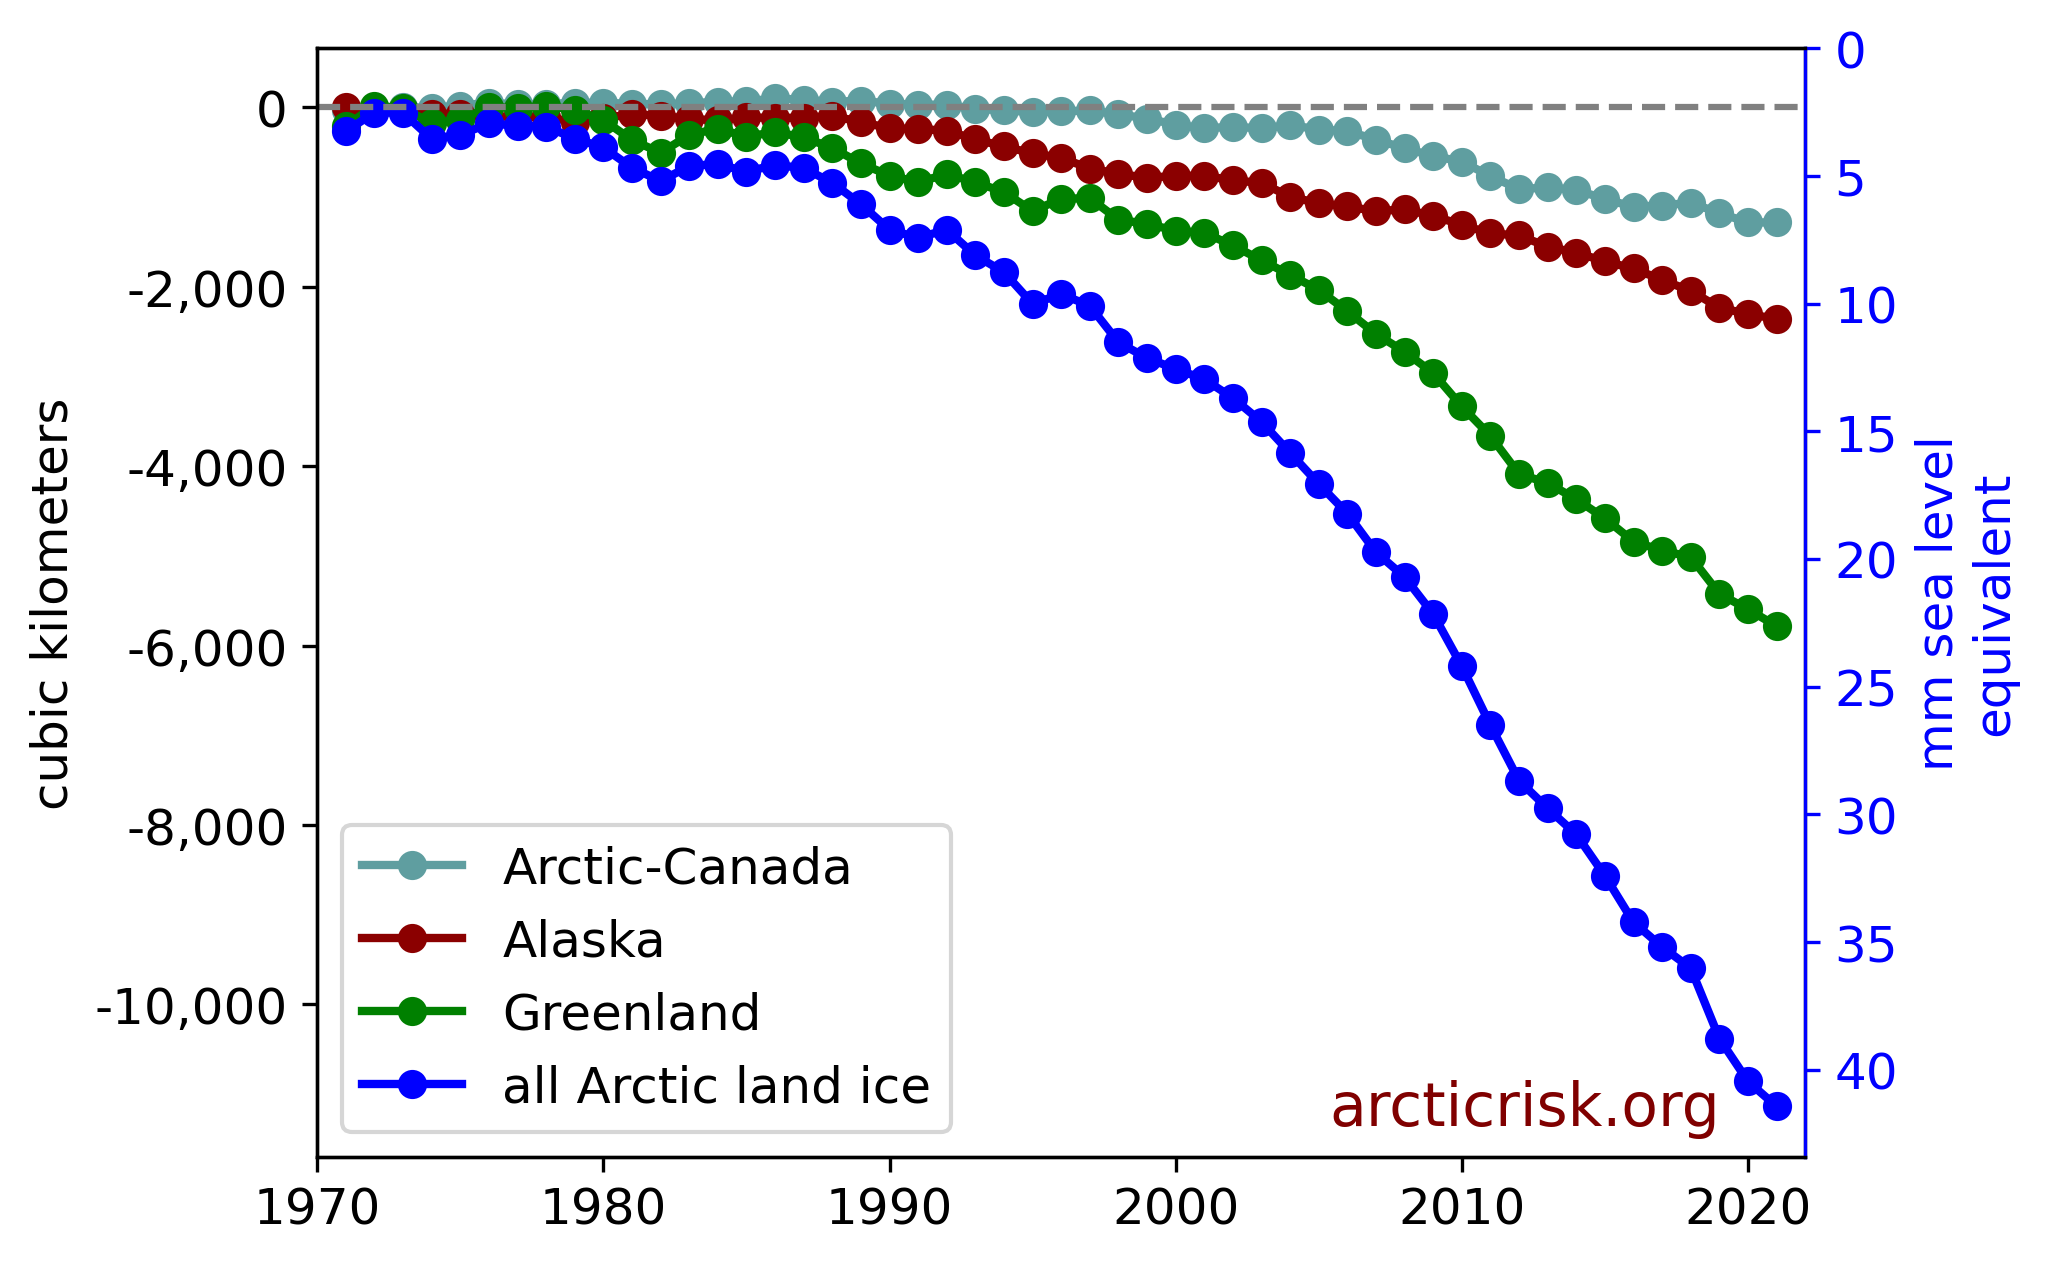
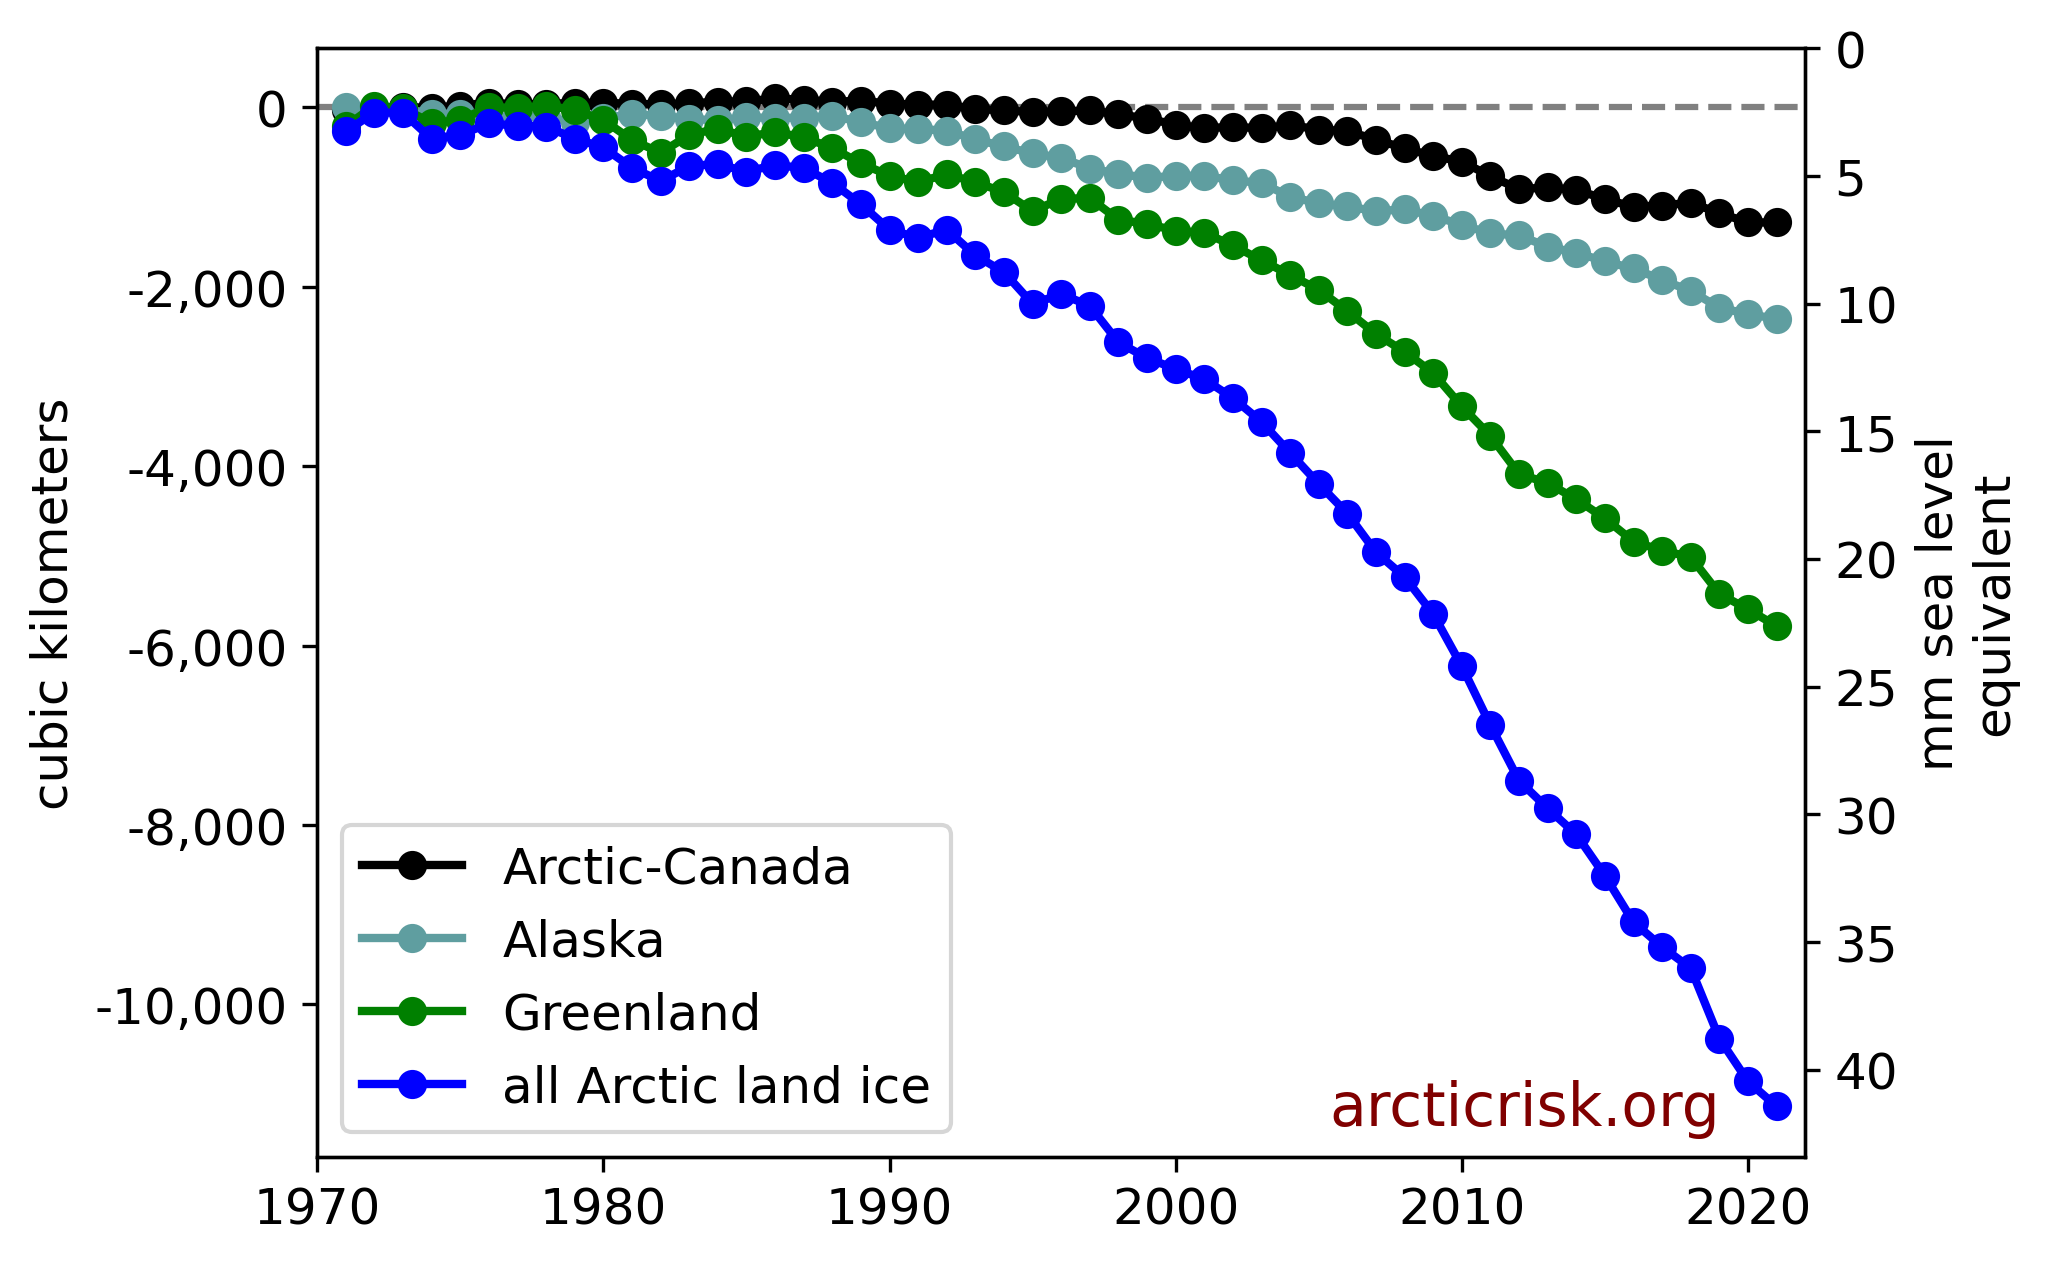
update

diff --git a/src/glaciers.py b/src/glaciers.py
@@ -72,8 +72,9 @@ cc=0
 
 x = df.year
 y=df['Total']
-trendline(cc,x,df['Arctic-Canada'],'cadetblue','Arctic-Canada','',do_trendline=0)
-trendline(cc,x,df['Alaska'],'darkred','Alaska','',do_trendline=0)
+ax.axhline(y=0,linestyle='--',linewidth=th*1.5, color='grey')
+trendline(cc,x,df['Arctic-Canada'],'k','Arctic-Canada','',do_trendline=0)
+trendline(cc,x,df['Alaska'],'cadetblue','Alaska','',do_trendline=0)
 trendline(cc,x,df['Greenland'],'g','Greenland','',do_trendline=0)
 trendline(cc,x,y,'b','all Arctic land ice','',do_trendline=0)
 
@@ -84,7 +85,6 @@ ax.set_ylabel("cubic kilometers", color=fg)
 ax.get_xaxis().set_visible(True)
 ax.legend()
 ax.set_xlim(1970,2022)
-ax.axhline(y=0,linestyle='--',linewidth=th*1.5, color='grey')
 
 ax.yaxis.set_major_formatter(mpl.ticker.StrMethodFormatter('{x:,.0f}'))
 
@@ -92,9 +92,9 @@ ax2 = ax.twinx()
 # ax2.plot(df.year,df['Total']/-362,'-o',c='b',label='mm sea level rise')
 ax2.set_ylabel("mm sea level\nequivalent", color=fg)
 ax2.set_ylim(31*1.4,0)
-ax2.spines['right'].set_color('b')
-ax2.yaxis.label.set_color('b')
-ax2.tick_params(axis='y', colors='b')
+ax2.spines['right'].set_color('k')
+ax2.yaxis.label.set_color('k')
+ax2.tick_params(axis='y', colors='k')
 ax2.grid(False)
 
 
@@ -218,5 +218,7 @@ if ly=='p':
     # 1200 pixels wide x 675 is optimal for Twitter 16:9 aspect ratio
     my_dpi=300
     plt.savefig(fig_path+figname+'.png', bbox_inches='tight',figsize=(1200/my_dpi, 675/my_dpi), dpi=my_dpi)
+    my_dpi=144
+    plt.savefig(fig_path+figname+'_72dpi.png', bbox_inches='tight',figsize=(1200/my_dpi, 675/my_dpi), dpi=my_dpi)
     plt.savefig(fig_path+figname+'.eps', bbox_inches='tight')
     # os.system('open '+fig_path+figname+'.png')
